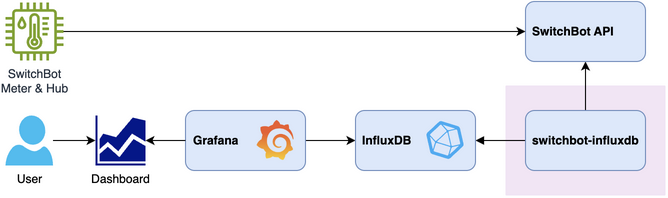
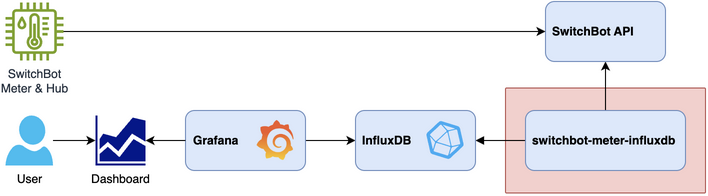
Change program name from switchbot-influx to switchbot-meter-influxdb

diff --git a/README.md b/README.md
@@ -1,4 +1,4 @@
-# SwitchBot-InfluxDB
+# SwitchBot Meter - InfluxDB
 
 Write SwitchBot environmental sensor data to InfluxDB
 
@@ -32,15 +32,15 @@ export INFLUXDB_TOKEN=your_influxdb_token
 Run as daemon
 
 ```sh
-switchbot-influx -d
+switchbot-meter-influx -d
 ```
 
 or command line options
 
 ```sh
-switchbot-influxdb --help
+switchbot-meter-influxdb --help
 
-usage: switchbot-influxdb [-h] [-d] [-t TIME] [--url URL] [--token TOKEN] [--org ORG] [--bucket BUCKET] [--switchbot-token SWITCHBOT_TOKEN] [--switchbot-secret SWITCHBOT_SECRET]
+usage: switchbot-meter-influxdb [-h] [-d] [-t TIME] [--url URL] [--token TOKEN] [--org ORG] [--bucket BUCKET] [--switchbot-token SWITCHBOT_TOKEN] [--switchbot-secret SWITCHBOT_SECRET]
 
 options:
   -h, --help            show this help message and exit
@@ -58,7 +58,7 @@ options:
 ```
 
 ```sh
-$ switchbot-influxdb -d \
+$ switchbot-meter-influxdb -d \
     --url http://influxdb:8086 --org your_org --bucket your_bucket --token your_token \
     --switchbot-token your_token --switchbot-secret your_secret
 ```
@@ -86,7 +86,7 @@ cp .env.example .env
 vi .env
 ```
 
-### Start SwitchBot-InfluxDB service
+### Start SwitchBot-Meter-InfluxDB service
 
 ```sh
 docker compose build
@@ -98,7 +98,7 @@ docker compose up -d && docker compose logs -f
 ```sql
 from(bucket: "switchbot")    // your_bucket
   |> range(start: v.timeRangeStart, stop: v.timeRangeStop)
-  |> filter(fn: (r) => r["_field"] == "temperature")
+  |> filter(fn: (r) => r["_field"] == "temperature")    // or humidity
 ```
 
 ![Grafana](images/grafana-influx-switchbot.png)
